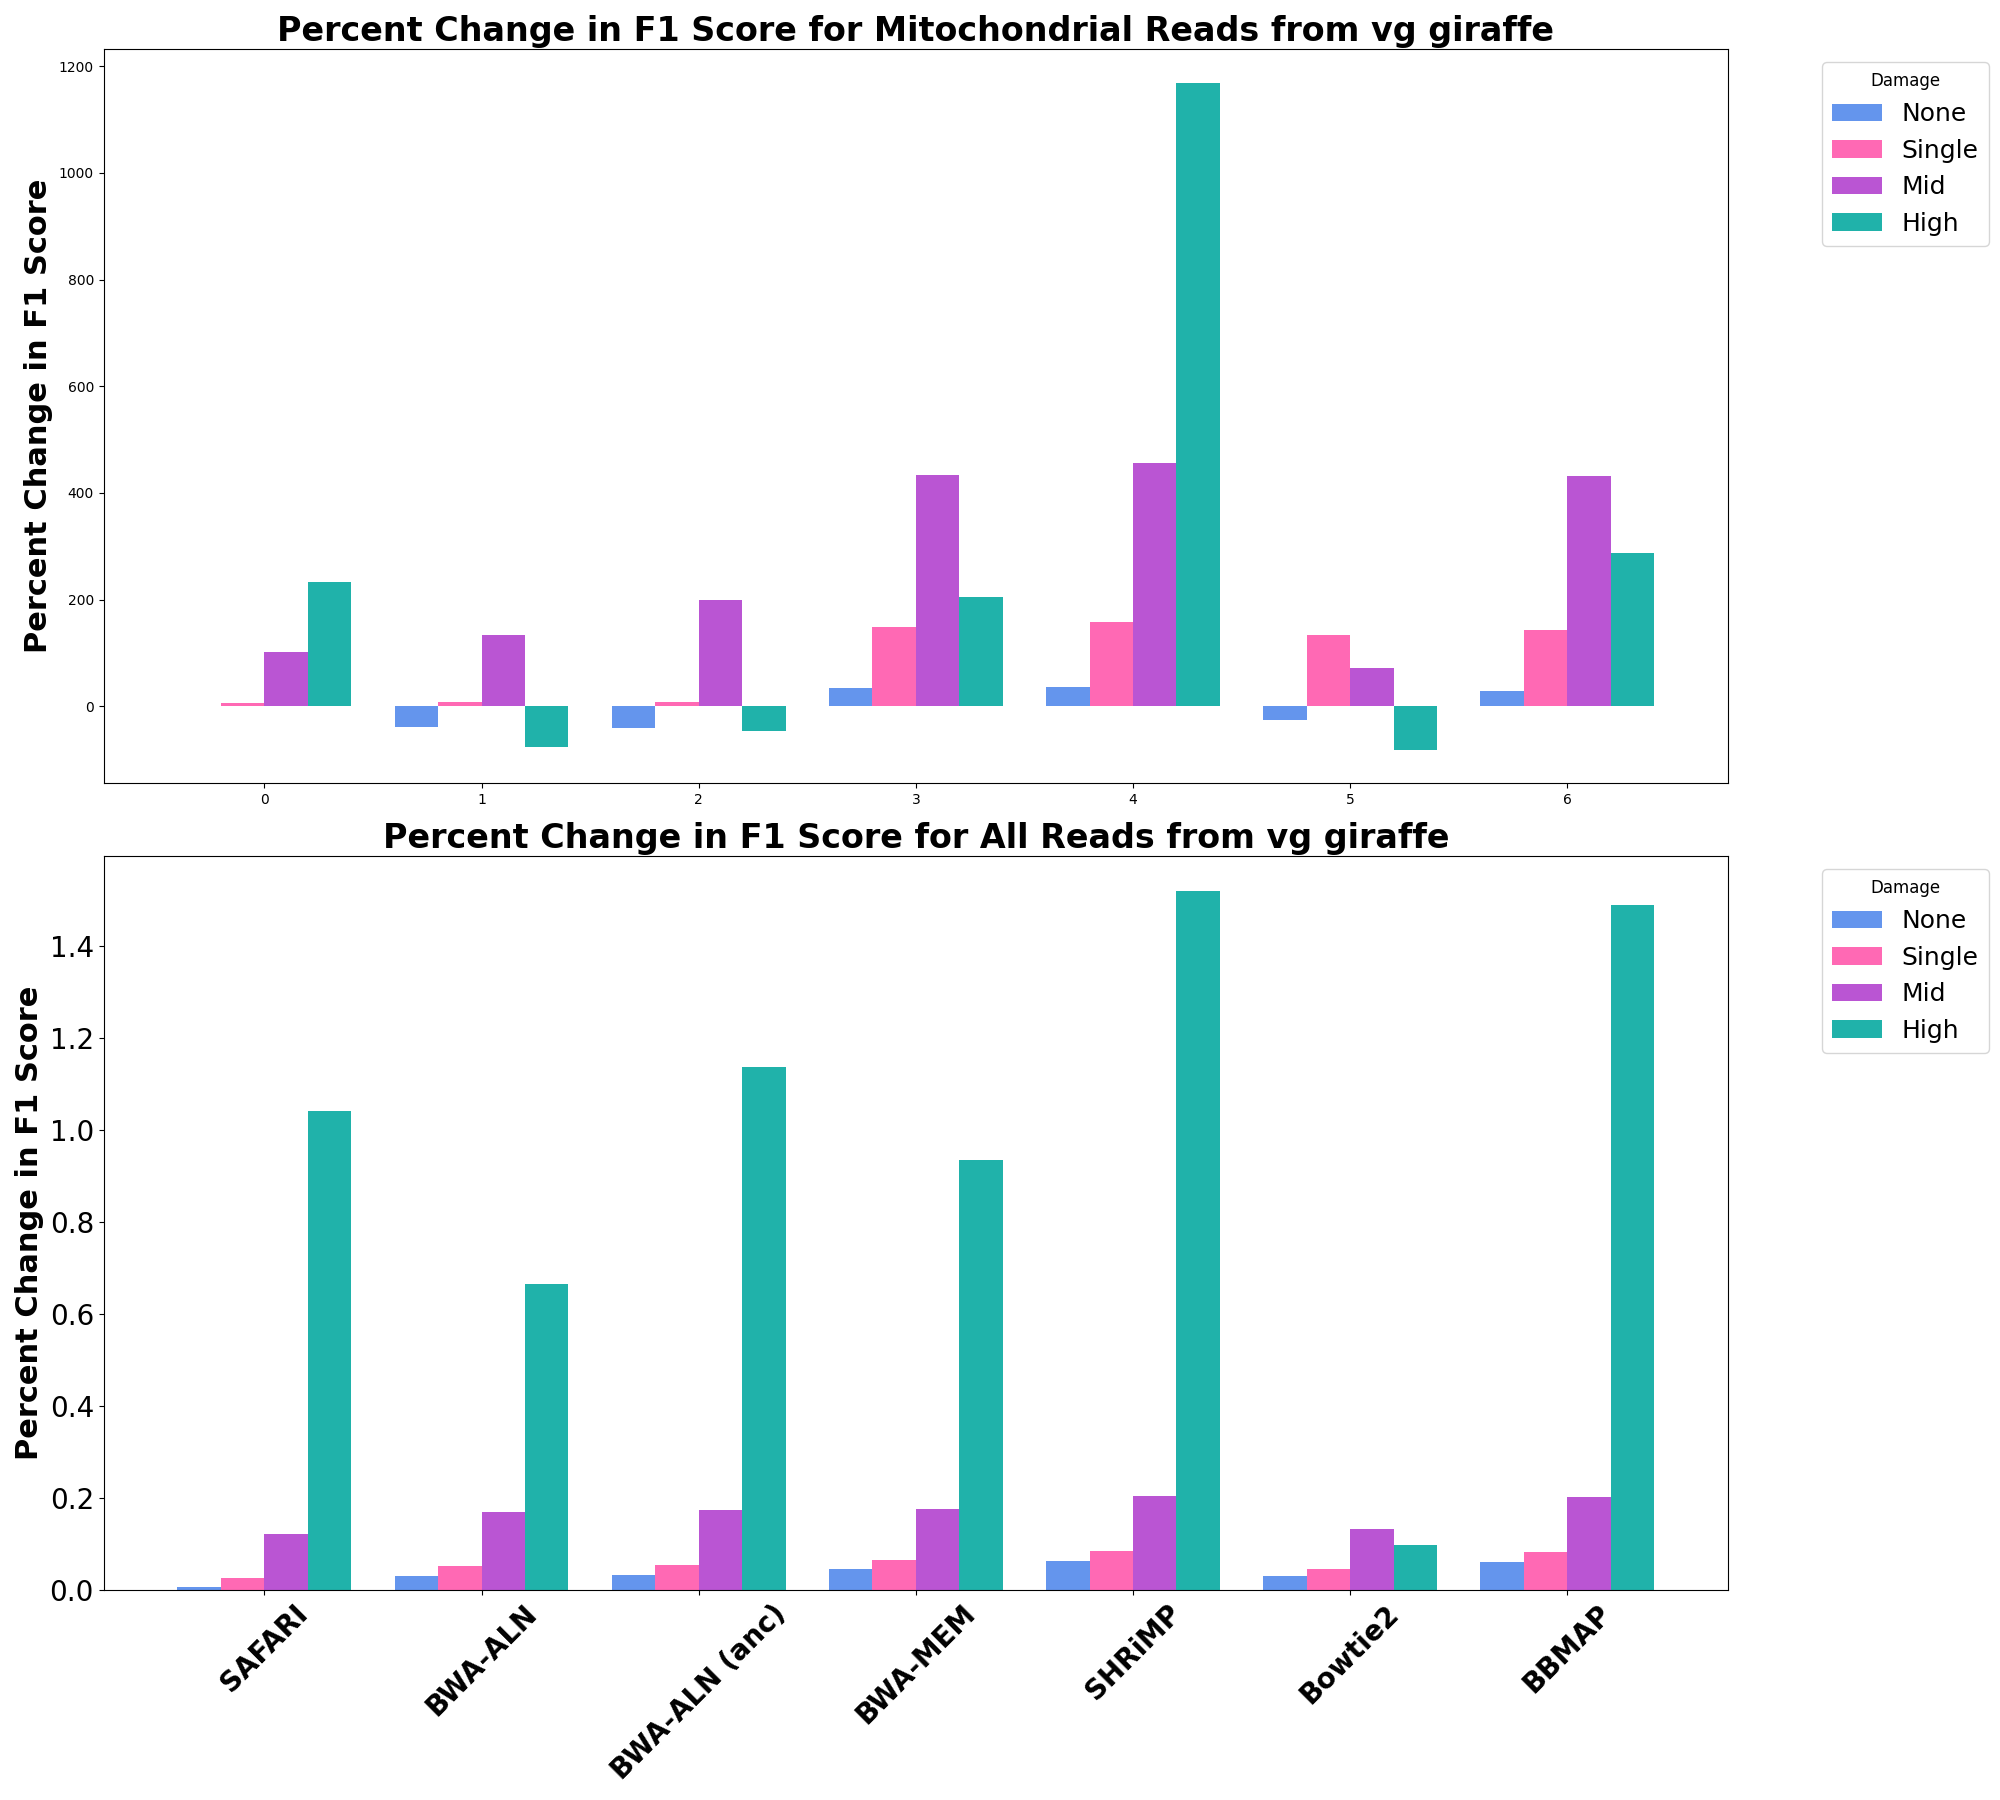
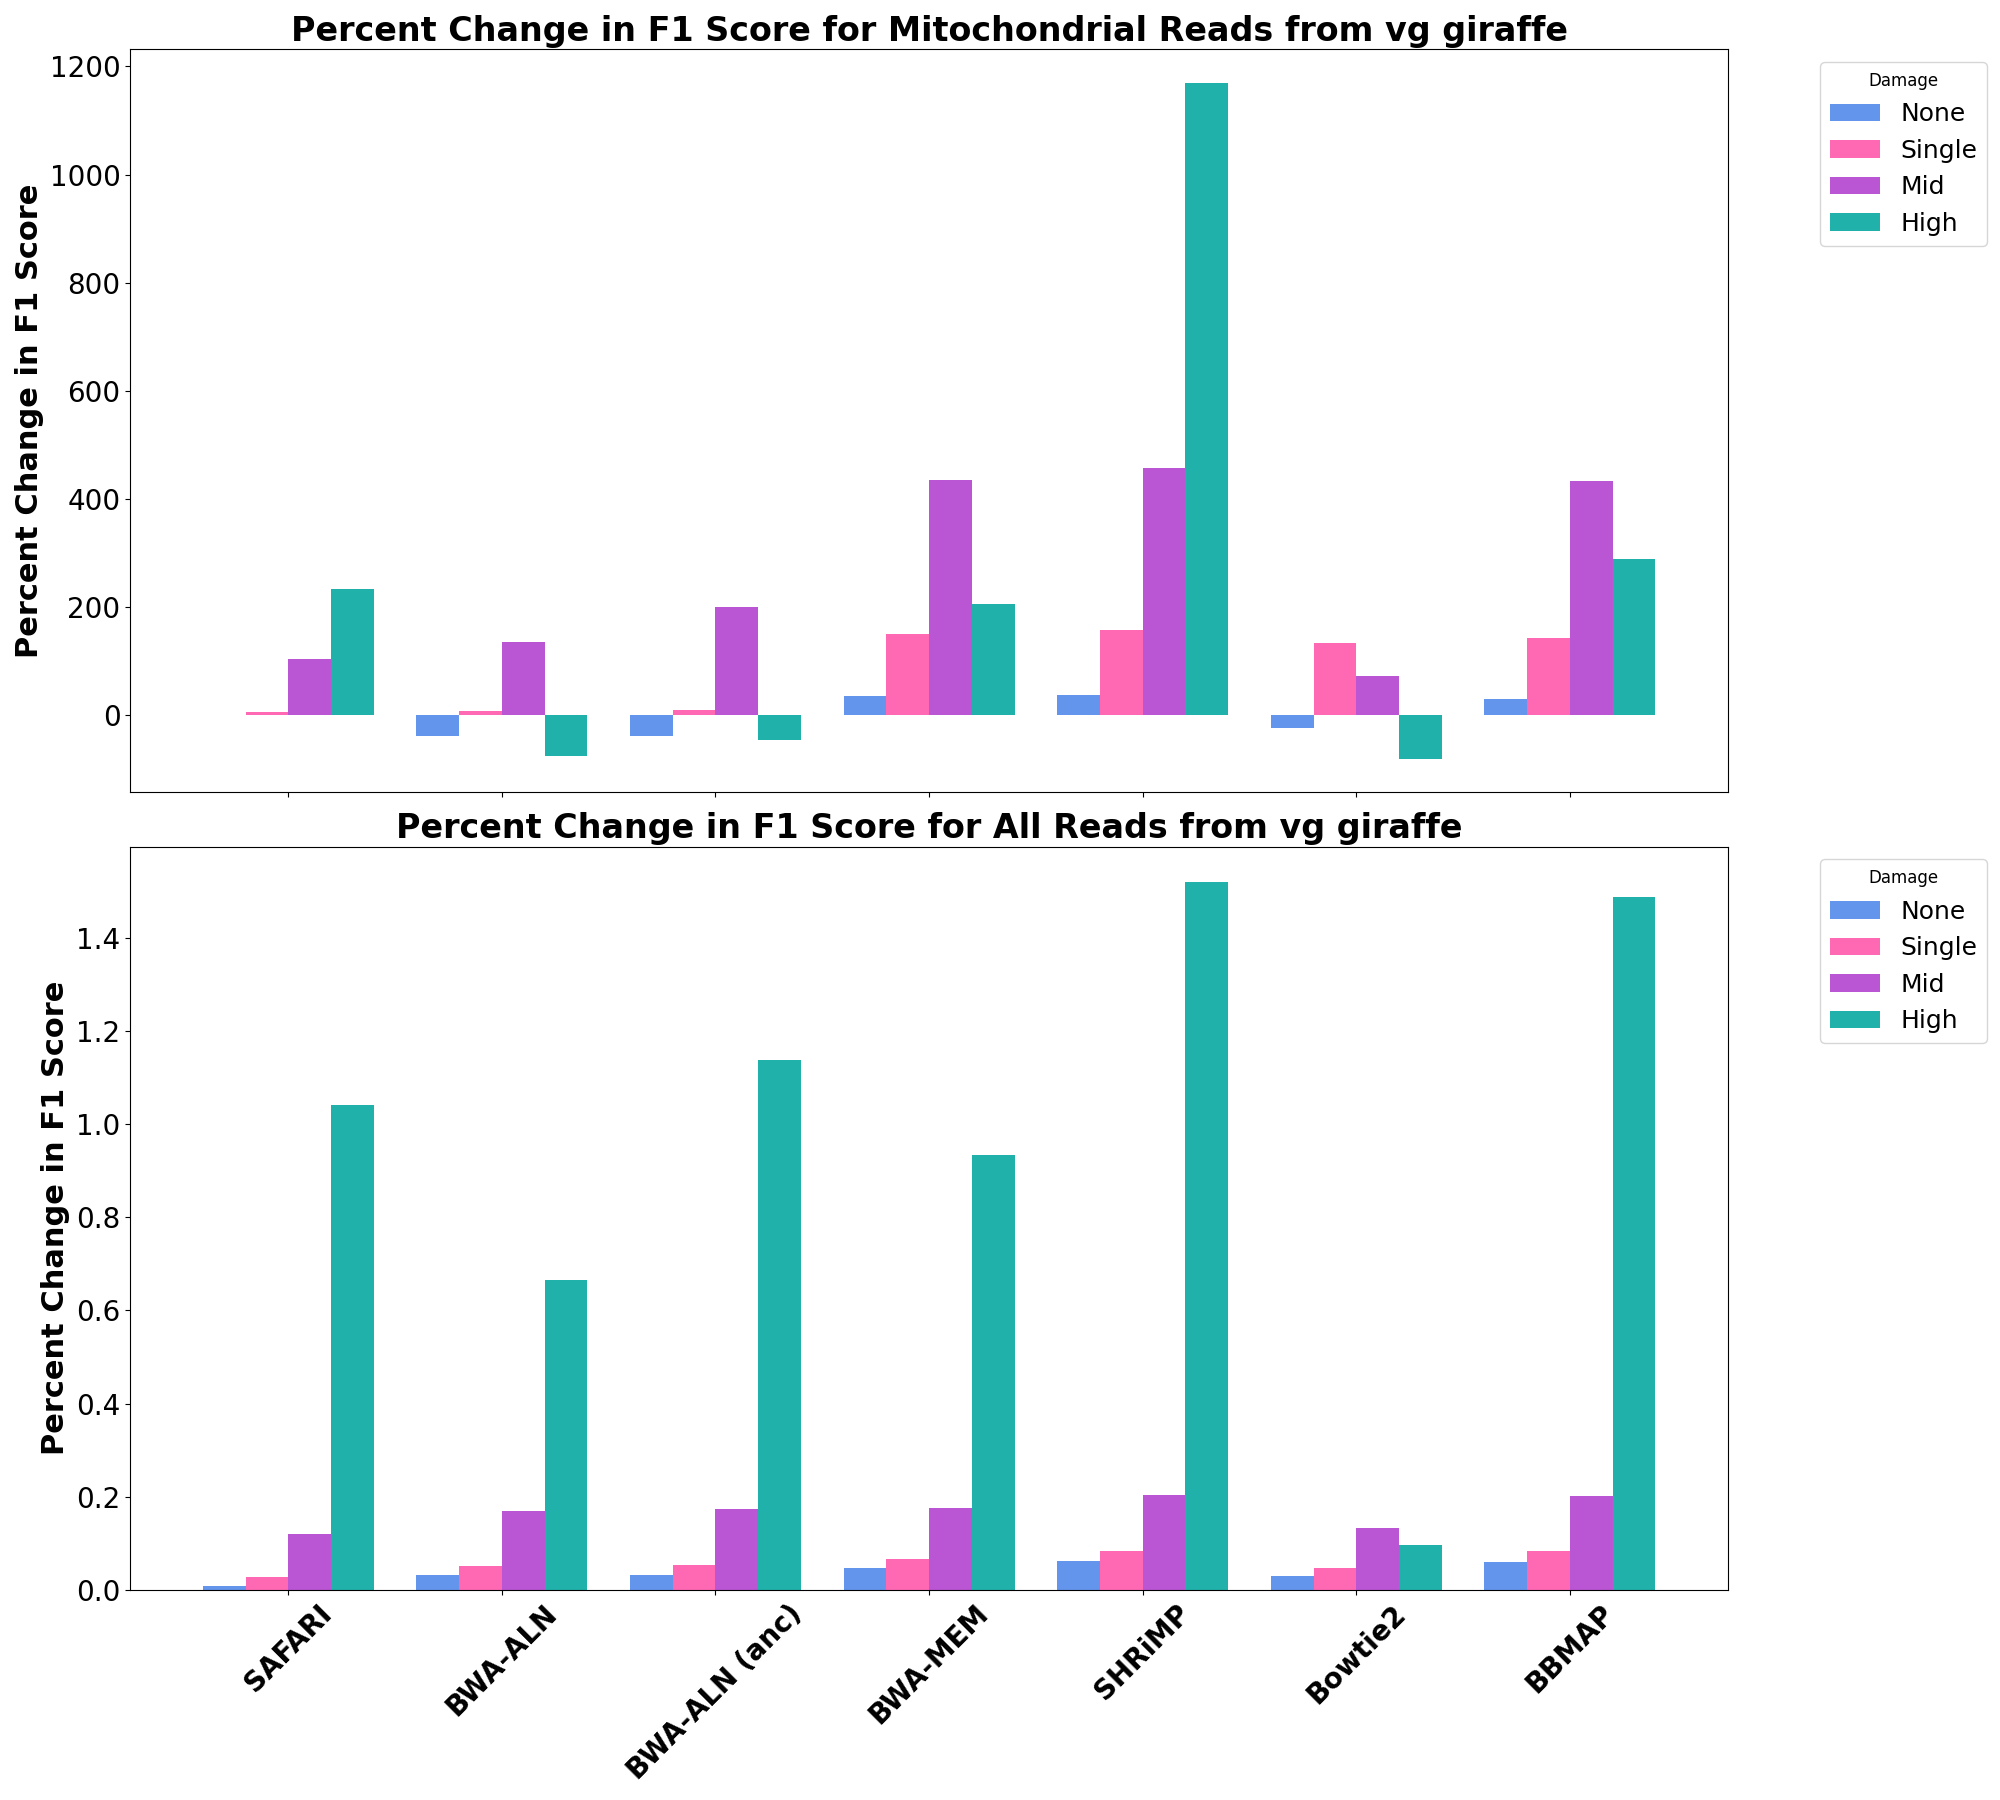
Update

diff --git a/linear_experiment/human_mito/plot_linear_stats.py b/linear_experiment/human_mito/plot_linear_stats.py
@@ -47,8 +47,9 @@ def plot_data_custom_bold_large_corrected(data):
     
     axs[0].set_ylabel('Percent Change in F1 Score', fontsize=label_fontsize, fontweight='bold')
     axs[0].set_title('Percent Change in F1 Score for Mitochondrial Reads from vg giraffe', fontsize=title_fontsize, fontweight='bold')
-    #axs[0].tick_params(axis='x', labelsize=tick_labelsize, labelrotation=45)
-    #axs[0].tick_params(axis='y', labelsize=tick_labelsize)
+    axs[0].tick_params(axis='x', labelsize=0)  # Hiding x-axis labels for the first subplot
+    axs[0].tick_params(axis='y', labelsize=tick_labelsize)
+    axs[0].set_xticklabels([])  # Ensuring x-ticks are not shown
     
     axs[1].set_ylabel('Percent Change in F1 Score', fontsize=label_fontsize, fontweight='bold')
     axs[1].set_title('Percent Change in F1 Score for All Reads from vg giraffe', fontsize=title_fontsize, fontweight='bold')
@@ -62,7 +63,8 @@ def plot_data_custom_bold_large_corrected(data):
     axs[1].legend(title='Damage', bbox_to_anchor=(1.05, 1), loc='upper left', fontsize=legend_fontsize, title_fontsize='large')
     
     plt.tight_layout()
-    plt.savefig("linear.png")
+    plt.savefig('linear.png')  # Saving the plot as 'linear.png'
+    plt.show()
 
 def main():
     if len(sys.argv) != 2:
